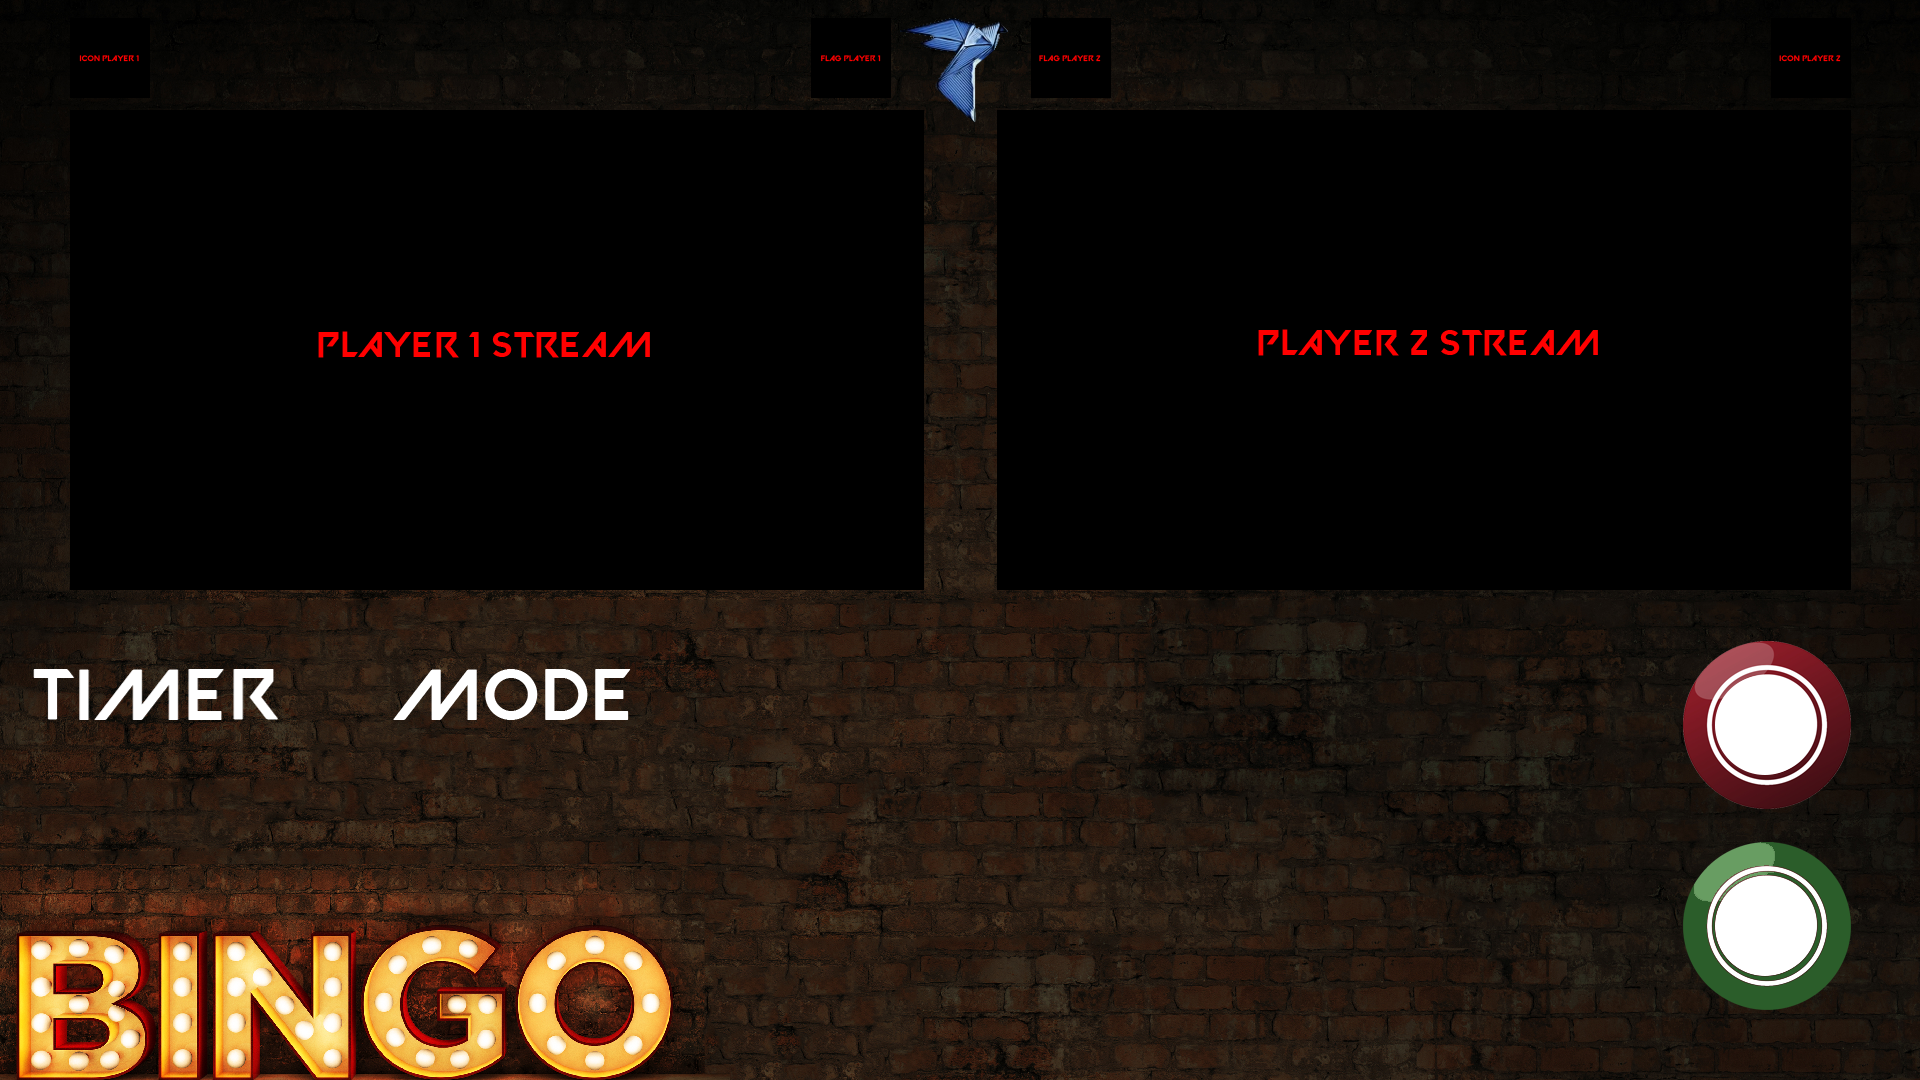
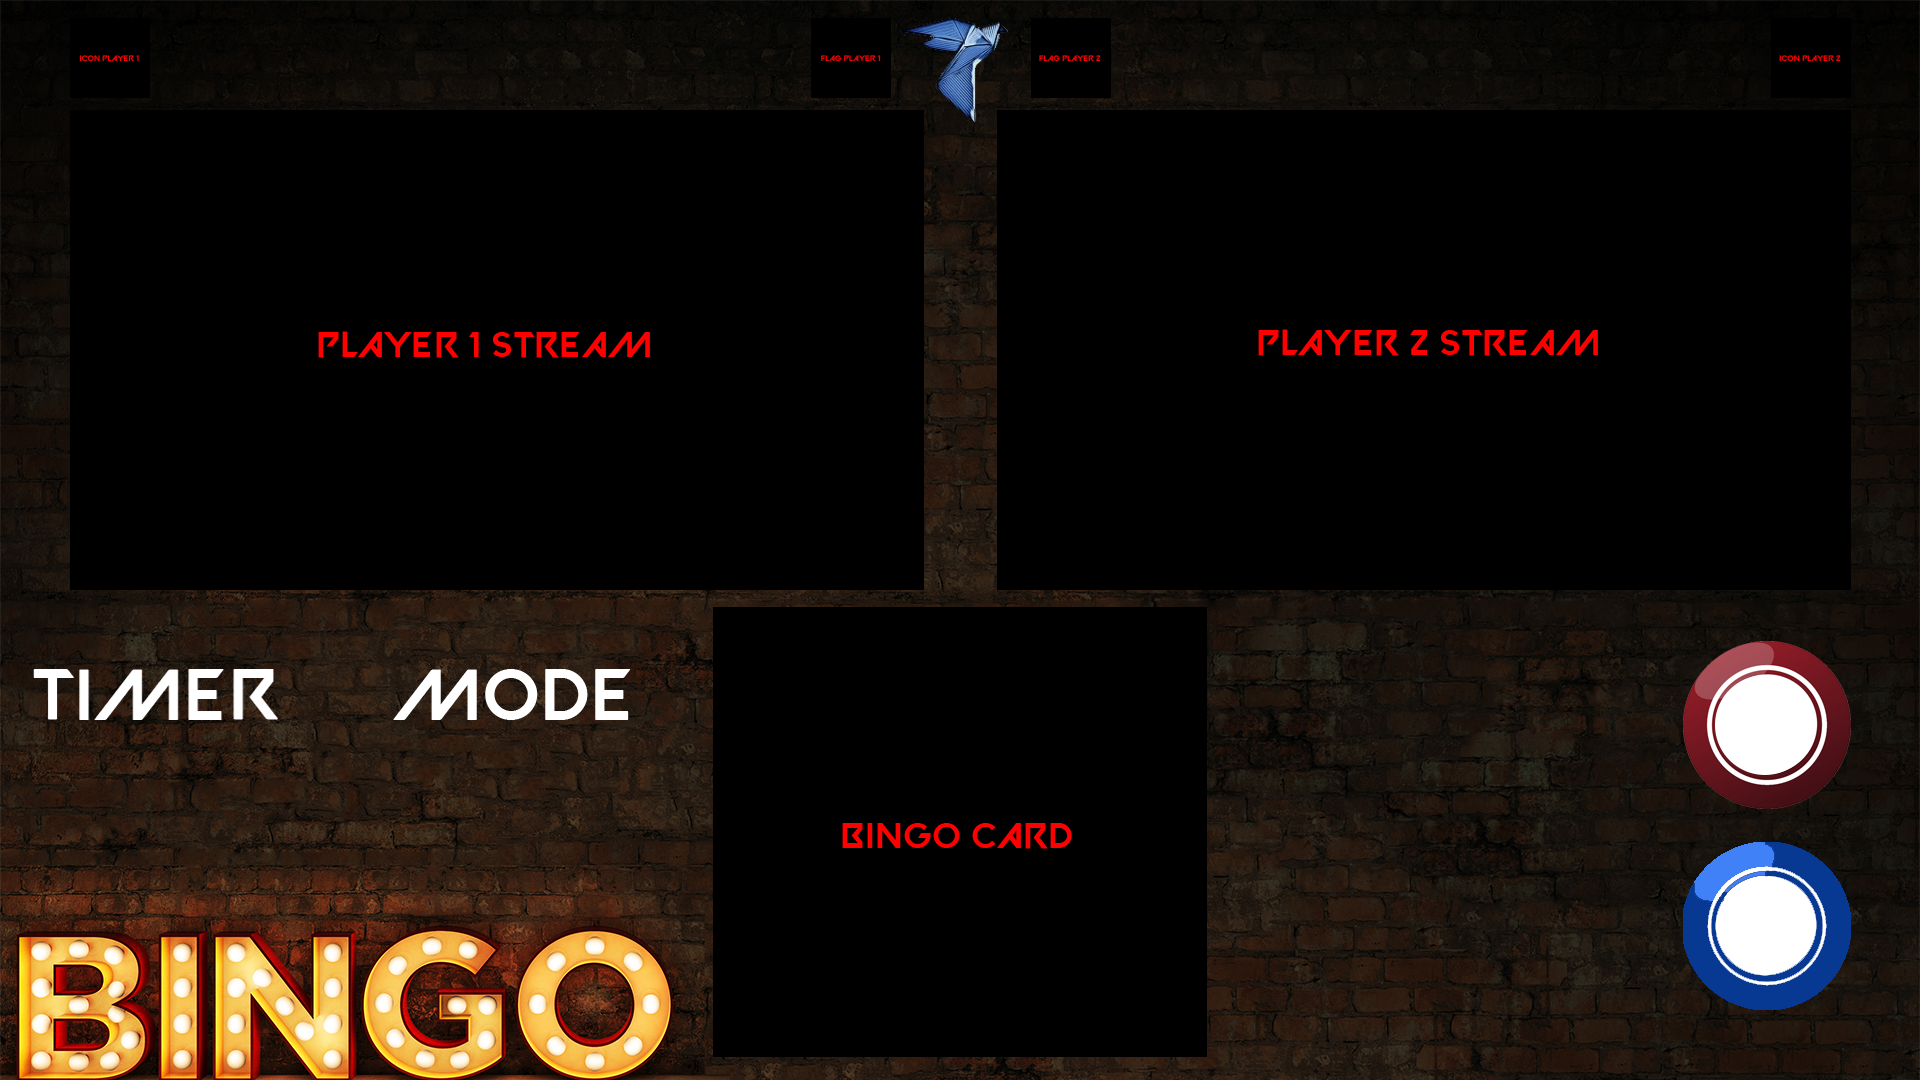
Update bingo overlay colors

Changed region(s): [[0.0, 0.55, 0.6562, 1.0], [0.875, 0.7639, 0.9688, 0.9472]]

diff --git a/src/components/BingoCard.vue b/src/components/BingoCard.vue
@@ -3,9 +3,9 @@
     <tr v-for="y in 5" :key="y">
       <td v-for="x in 5" :key="x" @click="click(x,y)" :style="`height: ${tileHeight || '88' }px;`">
         <div :class="getHalfClaimClass('red')" v-if="isTileHalfClaimed(x,y,0)"></div>
-        <div :class="getHalfClaimClass('green')" v-if="isTileHalfClaimed(x,y,1)"></div>
+        <div :class="getHalfClaimClass('navy')" v-if="isTileHalfClaimed(x,y,1)"></div>
         <div :class="getClaimClass('red')" v-if="isTileClaimed(x,y,0)"></div>
-        <div :class="getClaimClass('green')" v-if="isTileClaimed(x,y,1)"></div>
+        <div :class="getClaimClass('navy')" v-if="isTileClaimed(x,y,1)"></div>
         <div class="textField">{{ getTile(x,y) }}</div>
       </td>
     </tr>
@@ -51,6 +51,11 @@ td {
   font-family: "Helvetica Neue",Helvetica,Arial,sans-serif;
 }
 
+.navySquare {
+  background-image: linear-gradient(#0d48b5, #022b75);
+  background-color: #022b75;
+}
+
 .redSquare {
   background-image: linear-gradient(#891B26, #4C1117);
   background-color: #4C1117;
@@ -73,6 +78,12 @@ td {
   border-color: #2D802C;
 }
 
+.navyHCSquare {
+  border-width: 4px;
+  border-style: solid;
+  border-color: #0d48b5;
+}
+
 .coloredSquare {
   width: 100%;
   height: 100%;
@@ -85,7 +96,7 @@ td {
   transform-origin: 0px 0px;
 }
 
-.greenSquareNonLock {
+.navySquareNonLock {
   transform: skew(-45deg) translateX(0%);
   transform-origin: 0px 96px;
 }
